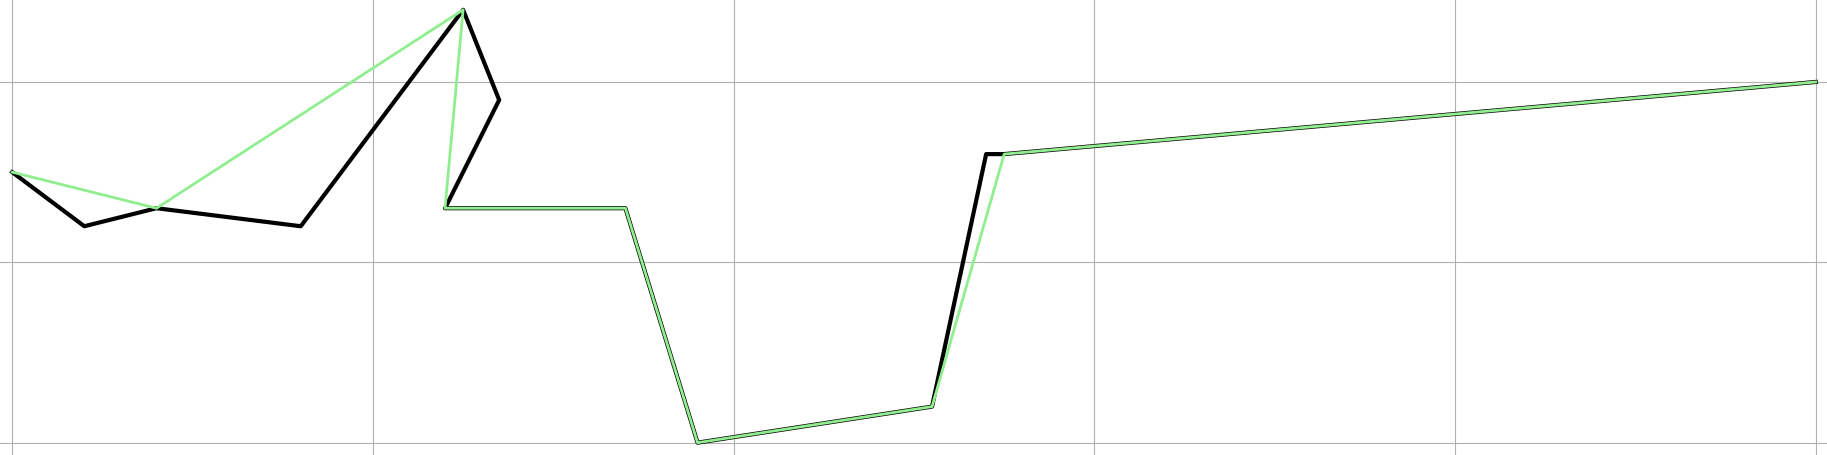
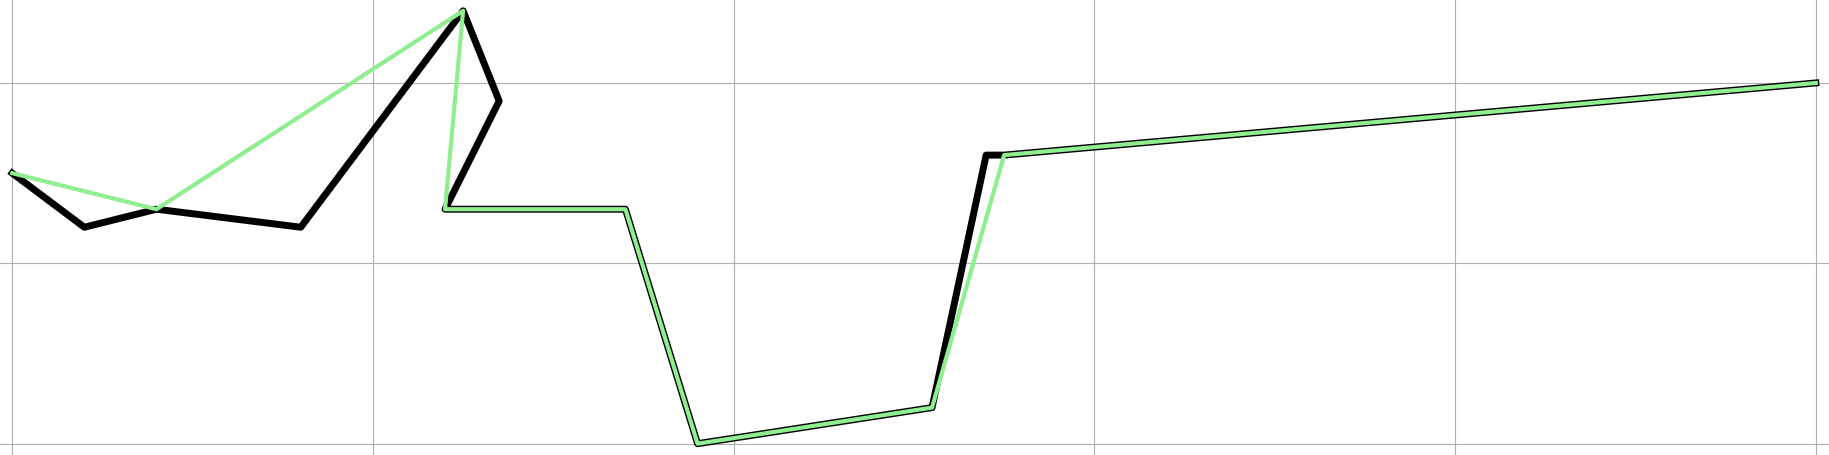
Create more images

diff --git a/python/start.py b/python/start.py
@@ -31,7 +31,7 @@ def plot_shortest_path(path, indices):
     x_list = [path[i].x for i in indices]
     y_list = [path[i].y for i in indices]
     line = plt.plot(x_list, y_list)
-    plt.setp(line, color='lightgreen', linewidth=2)
+    plt.setp(line, color='lightgreen', linewidth=3)
 
 
 def print_edges(edges):
@@ -62,11 +62,11 @@ edges = util.get_t_distance_preserving_edges(path, t, S)
 # print("Euclidean*t:\t" + str(util.euclidean_distance(path[2], path[4])*1.1))
 # print("delta: \t" + str((S[4]-S[2])))
 
-plots.plot_path(path)
+plots.plot_path(path, 5)
 
 # plots.plot_edges(edges_epsilon, 'green')
-# plots.plot_edges(edges, 'orange')
-plot_shortest_path(path, [0, 2, 4, 6, 7, 8, 9, 11, 12])
+plots.plot_edges(edges, 'orange')
+# plot_shortest_path(path, [0, 2, 4, 6, 7, 8, 9, 11, 12])
 
 
 plt.show()

diff --git a/python/plots.py b/python/plots.py
@@ -1,20 +1,20 @@
 import matplotlib.pyplot as plt
 
 
-def plot_path(path):
+def plot_path(path, linewidth):
     plt.figure(figsize=(30, 20))
     x_list = [node.x for node in path]
     y_list = [node.y for node in path]
     lines = plt.plot(x_list, y_list)
     plt.axis('equal')
-    plt.setp(lines, linewidth=3, color='black')
+    plt.setp(lines, linewidth=linewidth, color='black')
     plt.grid(True)
 
 
 def plot_edges(edges, color):
     for edge in edges:
         line = plt.plot([edge.head.x, edge.tail.x], [edge.head.y, edge.tail.y])
-        plt.setp(line, linewidth=2, color=color)
+        plt.setp(line, linewidth=3, color=color)
 
 
 def plot_points(path, indices, color):
